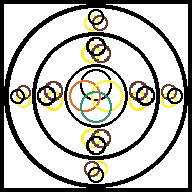
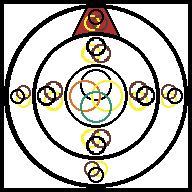
had to fix the Drill graphic along with starting of drill script

Changed region(s): [[0.375, 0.0312, 0.625, 0.1875]]

diff --git a/Assets/Scripts/Placeable Items Logic/MysticDrillLogic.cs b/Assets/Scripts/Placeable Items Logic/MysticDrillLogic.cs
@@ -1,0 +1,18 @@
+using System.Collections;
+using System.Collections.Generic;
+using UnityEngine;
+
+public class MysticDrillLogic : Placeable
+{
+	private GridControl grid;
+
+	public override void PlacedAction(GridControl _grid)
+	{
+		grid = _grid;
+	}
+
+	public override void RemovedAction()
+	{
+
+	}
+}
